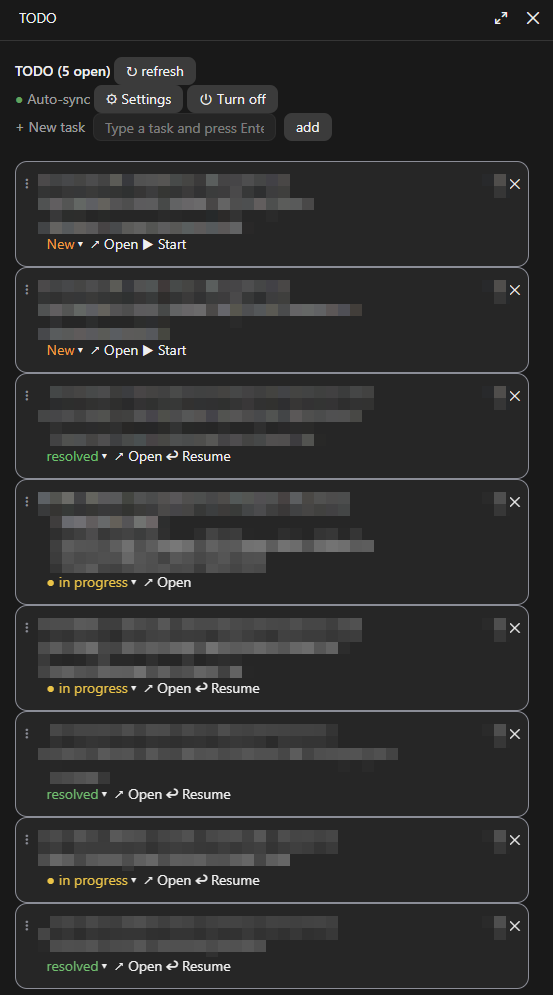
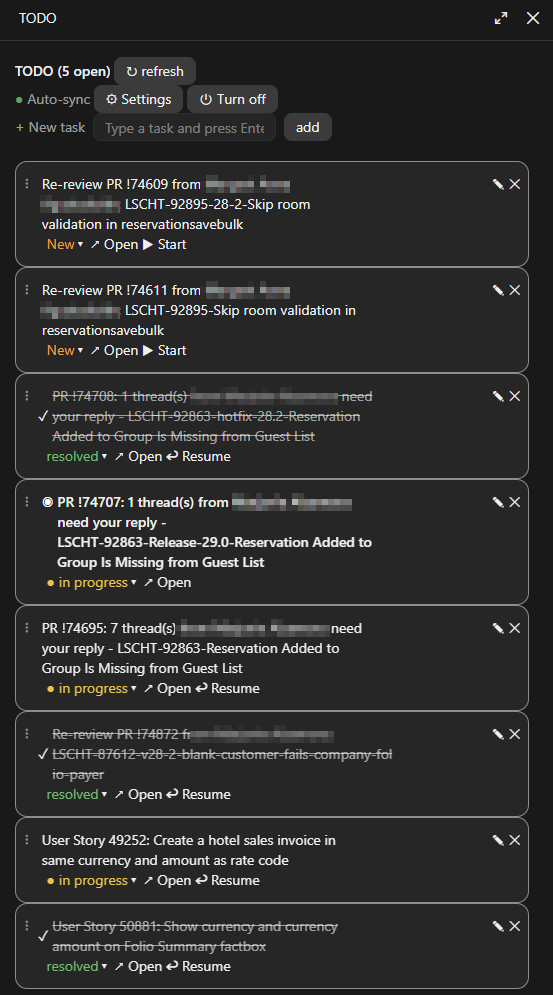
Blur only names in the README screenshot

diff --git a/README.md b/README.md
@@ -2,9 +2,9 @@
 
 A TODO list pane for the Claude desktop app: add, edit, check off, remove and drag to reorder tasks, and press ▶ Start to write an opening prompt for a task into the prompt box. Optionally it watches Azure DevOps and adds what needs you.
 
-![The TODO pane in the Claude desktop app, with task text blurred](docs/todo-pane.png)
+![The TODO pane in the Claude desktop app, with people's names blurred](docs/todo-pane.png)
 
-*Task text is blurred. Orange "New" marks recent tasks, yellow "in progress" tasks you started with ▶ Start, green "resolved" tasks that are done.*
+*Names are blurred. Orange "New" marks recent tasks, yellow "in progress" tasks you started with ▶ Start, green "resolved" tasks that are done.*
 
 The pane opens when you run `/todo`. In a brand new session, before your first message, the menu lists it as `/todo-pane:todo`; after the first message plain `/todo` works too. Both do the same.
 
